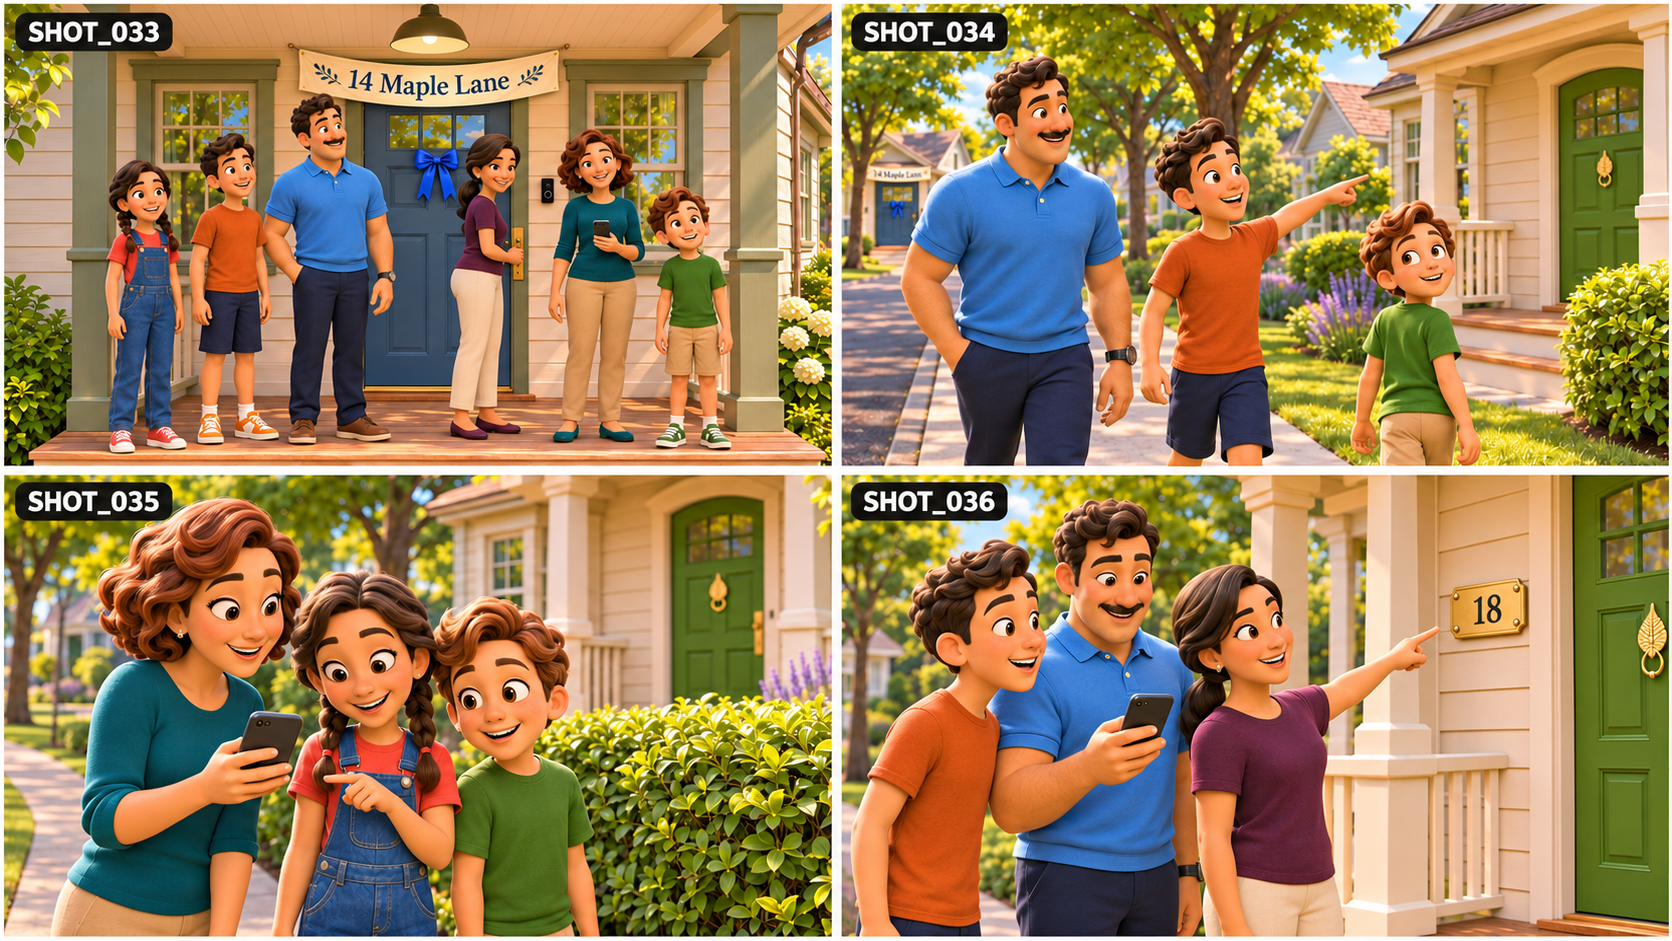
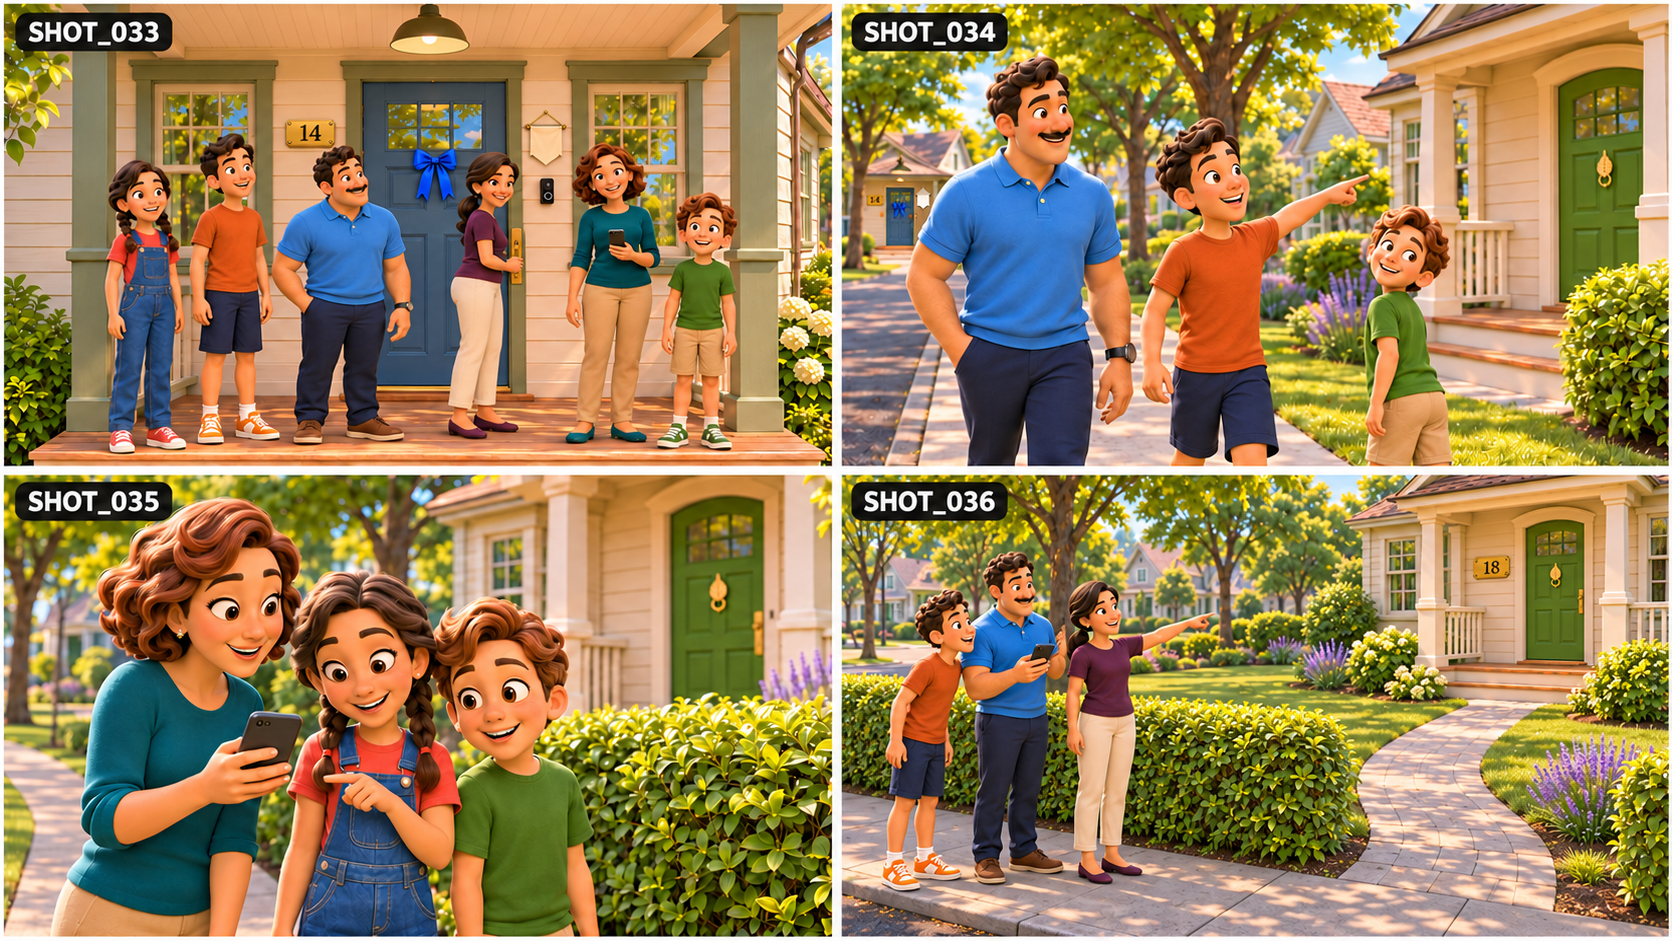
Repair Episode 10 storyboard 09 continuity

diff --git a/docs/STORYBOARD_REPAIR_LOG.md b/docs/STORYBOARD_REPAIR_LOG.md
@@ -24,7 +24,8 @@ The active request is to fix the selected storyboard PNGs themselves. Video-prom
 | 08 / BOARD_07 | Replaced the hard boxes with zippered fabric cubes, put the suitcase on its stand and separated the two sorting sheets. Shot 025 is still short one closed cube. | [Selected sheet](../Episode_08/assets/storyboards/BOARD_07.png) · [Correction record](../artwork_qa/records/ep08-board07-clip-continuity.json) |
 | 09 / BOARD_07 | Restored Ella and gardening gloves and grounded the basil in 027. The first panel still has a suspended nursery pot and Leo’s hand placement needs work in 027. | [Selected sheet](../Episode_09/assets/storyboards/BOARD_07.png) · [Correction record](../artwork_qa/records/ep09-board07-clip-continuity.json) |
 | 10 / BOARD_09 | Removed the backpacks, restored the blue bow and made the neighbor's 18 readable. The welcome banner, Max's look back and the distance from the second house still need adjustment. | [Selected sheet](../Episode_10/assets/storyboards/BOARD_09.png) · [Correction record](../artwork_qa/records/ep10-board09-clip-continuity.json) |
+| 10 / BOARD_09 | Moved the cream banner beside the blue door, turned Max back toward home and staged the address check on the public sidewalk. Dan’s height in 033 needs another pass. | [Selected sheet](../Episode_10/assets/storyboards/BOARD_09.png) · [Correction record](../artwork_qa/records/ep10-board09-address-and-sidewalk.json) |
 
-Current QA inventory: **289 shots with major visual defects; 511 awaiting human review**. Selected repairs remove only the visually verified discrepancies recorded above. Creator acceptance and individual motion-frame approval remain pending. Other storyboard defects have not been declared fixed.
+Current QA inventory: **287 shots with major visual defects; 513 awaiting human review**. Selected repairs remove only the visually verified discrepancies recorded above. Creator acceptance and individual motion-frame approval remain pending. Other storyboard defects have not been declared fixed.
 
 Each selected edit preserves the prior image through its parent Git commit, retains the returned ImageGen source, updates all four panel evidence hashes and records what was visually confirmed. The Episode 01 printed-label audit is refreshed against the new pixels. Corrections are committed and pushed as checkpoints before requesting the next image.

diff --git a/CURRENT_PRODUCTION_STATUS.md b/CURRENT_PRODUCTION_STATUS.md
@@ -4,7 +4,7 @@
 
 The 800 clips have 3,228 dialogue turns across ten 20-minute episodes. Each clip has four or five turns. The provisional speaker windows start at 0.25 seconds and allow the final action or reaction to carry into the cut. Each episode’s screenplay, video prompts and subtitles use the same dialogue. The [episode index](README.md#episodes) links directly to the prompts and each episode’s shot findings.
 
-The [image repair log](docs/STORYBOARD_REPAIR_LOG.md) identifies the selected replacement sheets. Current QA records list 289 major visual discrepancies and 511 shots awaiting human review. [Individual findings](docs/qa/) name the correction and the image hash for each panel. Use the [November 19 audit](docs/AUDIT_EP01_EP10.md) for the earlier review.
+The [image repair log](docs/STORYBOARD_REPAIR_LOG.md) identifies the selected replacement sheets. Current QA records list 287 major visual discrepancies and 513 shots awaiting human review. [Individual findings](docs/qa/) name the correction and the image hash for each panel. Use the [November 19 audit](docs/AUDIT_EP01_EP10.md) for the earlier review.
 
 ## Audit branch validation — 2026-11-19
 
